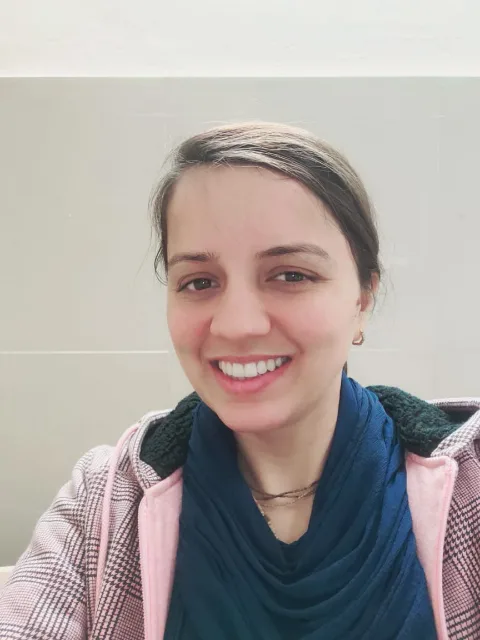
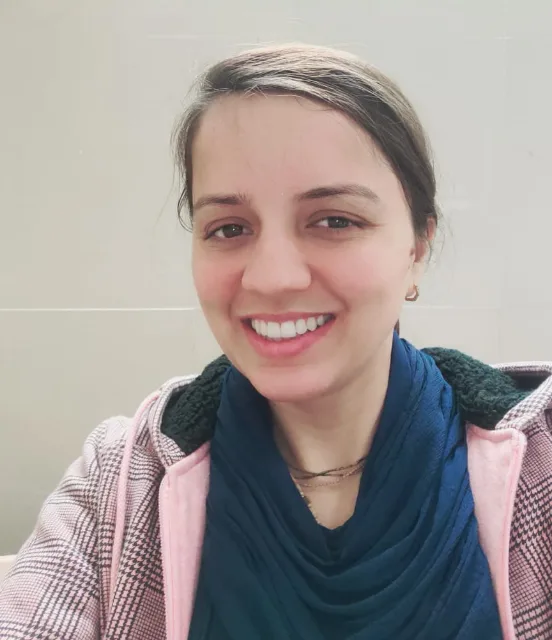
feat: Our Team page at /team — slice S6
- TeamView: light header, six photo cards in the old-homepage order
  (name, role, credentials) from GET /api/content/team; 3/2/1 per row,
  square photos on phones, loading placeholders and error message
- "Our Team" nav tab now visible; /team route and view mapping
- Deepshikha Singh photo re-cropped to remove a white wall strip
- New e2e team-page.mjs; nav-flow expects the Our Team tab

diff --git a/src/components/views/TeamView.tsx b/src/components/views/TeamView.tsx
@@ -1,0 +1,123 @@
+import React, { useEffect, useState } from 'react';
+import { ArrowRight } from 'lucide-react';
+import { contentApi, TeamMember } from '../../api/content';
+
+/**
+ * Our Team (/team): the six people from the company's previous homepage, in its order.
+ * Data comes from GET /api/content/team (migration 009).
+ */
+interface Props {
+  onNavigate: (view: string) => void;
+}
+
+const initials = (name: string) =>
+  name
+    .replace(/^Dr\.\s*/, '')
+    .split(/\s+/)
+    .map((w) => w[0])
+    .slice(0, 2)
+    .join('');
+
+export const TeamView: React.FC<Props> = ({ onNavigate }) => {
+  const [team, setTeam] = useState<TeamMember[] | null>(null);
+  const [loadError, setLoadError] = useState(false);
+
+  useEffect(() => {
+    contentApi
+      .team()
+      .then(setTeam)
+      .catch(() => setLoadError(true));
+  }, []);
+
+  return (
+    <div className="pb-24">
+      {/* Header */}
+      <section className="relative overflow-hidden bg-gradient-to-b from-teal-50/80 to-transparent">
+        <div aria-hidden="true" className="absolute inset-0 bg-[radial-gradient(#0d9488_1px,transparent_1px)] [background-size:24px_24px] opacity-[0.07]" />
+        <div className="relative max-w-3xl mx-auto px-4 sm:px-6 pt-16 pb-12 lg:pt-20 text-center space-y-4">
+          <p className="text-xs font-bold uppercase tracking-[0.18em] text-teal-700">Our Team</p>
+          <h1 className="text-4xl sm:text-5xl font-extrabold tracking-tight text-slate-900 font-heading text-balance">
+            The people behind Transenigma
+          </h1>
+          <p className="text-base sm:text-lg text-slate-600 leading-relaxed text-pretty">
+            Researchers, engineers and practitioners working across psychology, technology and health.
+          </p>
+        </div>
+      </section>
+
+      {/* People */}
+      <section aria-label="Team members" className="max-w-6xl mx-auto px-4 sm:px-6 lg:px-8">
+        {loadError && (
+          <p role="alert" className="text-sm text-rose-600 text-center py-10">
+            We could not load the team right now. Please refresh the page.
+          </p>
+        )}
+
+        <ul className="grid gap-6 sm:grid-cols-2 lg:grid-cols-3" aria-busy={!team && !loadError}>
+          {!team && !loadError &&
+            Array.from({ length: 6 }, (_, i) => (
+              <li key={i} aria-hidden="true" className="rounded-3xl border border-slate-200 bg-white overflow-hidden animate-pulse">
+                <div className="aspect-square sm:aspect-[4/5] bg-slate-100" />
+                <div className="p-6 space-y-3">
+                  <div className="h-5 w-2/3 bg-slate-100 rounded" />
+                  <div className="h-4 w-1/2 bg-slate-100 rounded" />
+                  <div className="h-3 w-3/4 bg-slate-100 rounded" />
+                </div>
+              </li>
+            ))}
+
+          {team?.map((m) => (
+            <li key={m.id}>
+              <article className="group h-full flex flex-col rounded-3xl border border-slate-200 bg-white overflow-hidden shadow-xs hover:shadow-lg hover:-translate-y-0.5 transition-all duration-300">
+                <div className="relative aspect-square sm:aspect-[4/5] overflow-hidden bg-gradient-to-br from-teal-50 to-slate-100">
+                  {m.photo ? (
+                    <img
+                      src={m.photo}
+                      alt={`Portrait of ${m.name}`}
+                      loading="lazy"
+                      decoding="async"
+                      className="absolute inset-0 w-full h-full object-cover object-top transition-transform duration-700 group-hover:scale-[1.03]"
+                    />
+                  ) : (
+                    <span aria-hidden="true" className="absolute inset-0 flex items-center justify-center text-5xl font-bold text-teal-700/60 font-heading">
+                      {initials(m.name)}
+                    </span>
+                  )}
+                  <div aria-hidden="true" className="absolute inset-x-0 bottom-0 h-24 bg-gradient-to-t from-slate-900/25 to-transparent" />
+                </div>
+                <div className="flex-1 p-6">
+                  <h2 className="text-xl font-bold text-slate-900 font-heading">{m.name}</h2>
+                  <p className="mt-1 text-sm font-semibold text-teal-700">{m.role}</p>
+                  <ul className="mt-4 space-y-1.5 border-t border-slate-100 pt-4">
+                    {m.credentials.map((c) => (
+                      <li key={c} className="text-sm text-slate-600 leading-snug">
+                        {c}
+                      </li>
+                    ))}
+                  </ul>
+                </div>
+              </article>
+            </li>
+          ))}
+        </ul>
+      </section>
+
+      {/* Contact prompt */}
+      <section className="max-w-6xl mx-auto px-4 sm:px-6 lg:px-8 mt-16">
+        <div className="rounded-3xl bg-slate-50 border border-slate-200 px-6 py-10 sm:px-10 flex flex-col sm:flex-row items-center justify-between gap-6 text-center sm:text-left">
+          <div className="space-y-1">
+            <h2 className="text-xl sm:text-2xl font-bold text-slate-900 font-heading">Want to work with us?</h2>
+            <p className="text-sm text-slate-600">Tell us about your project, research idea or question.</p>
+          </div>
+          <button
+            onClick={() => onNavigate('contact')}
+            className="shrink-0 h-12 px-6 rounded-xl bg-teal-600 hover:bg-teal-700 text-white font-semibold text-[15px] transition-colors inline-flex items-center gap-2 cursor-pointer focus:outline-hidden focus-visible:ring-4 focus-visible:ring-teal-500/30"
+          >
+            Contact us
+            <ArrowRight className="w-4 h-4" aria-hidden="true" />
+          </button>
+        </div>
+      </section>
+    </div>
+  );
+};

diff --git a/src/App.tsx b/src/App.tsx
@@ -20,6 +20,7 @@ import { FactorsDirectoryView } from './components/views/FactorsDirectoryView';
 import { HowItWorksView } from './components/views/HowItWorksView';
 import { BenefitsView } from './components/views/BenefitsView';
 import { FAQView } from './components/views/FAQView';
+import { TeamView } from './components/views/TeamView';
 import { ContactView } from './components/views/ContactView';
 import { PrivacyTermsView } from './components/views/PrivacyTermsView';
 import { AdminPortalView } from './components/views/AdminPortalView';
@@ -118,6 +119,7 @@ export default function App() {
         <Route path="/how-it-works" element={<WithNavigate component={HowItWorksView} />} />
         <Route path="/benefits" element={<WithNavigate component={BenefitsView} />} />
         <Route path="/faq" element={<WithNavigate component={FAQView} />} />
+        <Route path="/team" element={<WithNavigate component={TeamView} />} />
         <Route path="/contact" element={<ContactView />} />
         <Route path="/privacy" element={<PrivacyTermsView key="privacy" initialTab="privacy" />} />
         <Route path="/terms" element={<PrivacyTermsView key="terms" initialTab="terms" />} />

diff --git a/src/components/layout/Navbar.tsx b/src/components/layout/Navbar.tsx
@@ -49,7 +49,7 @@ const NAV_ITEMS: NavItem[] = [
   },
   { id: 'research', label: 'Research', view: 'research', ready: false },
   { id: 'consultancy', label: 'Consultancy', view: 'consultancy', ready: false },
-  { id: 'team', label: 'Our Team', view: 'team', ready: false },
+  { id: 'team', label: 'Our Team', view: 'team' },
   { id: 'contact', label: 'Contact', view: 'contact' },
 ];
 

diff --git a/src/lib/routes.ts b/src/lib/routes.ts
@@ -14,6 +14,7 @@ const VIEW_PATHS: Record<string, string> = {
   benefits: '/benefits',
   faq: '/faq',
   contact: '/contact',
+  team: '/team',
   'privacy-terms': '/privacy',
   privacy: '/privacy',
   terms: '/terms',

diff --git a/tests/e2e/README.md b/tests/e2e/README.md
@@ -8,6 +8,7 @@ They need no extra npm packages; Node 22+ has a built-in WebSocket. Screenshots 
 | Script | What it checks |
 |---|---|
 | `guest-flow.mjs` | Guest takes the test → reload and resume → submit → results gate → sign up → report → share link → My Results |
+| `team-page.mjs` | Our Team page: six people in the old-homepage order, all photos load, 3/2/1 per row at 1440/768/390 px, no overflow, nav tab active, Contact button. Read-only |
 | `home-top.mjs` | Home page order: dark Transenigma intro → Research · Consultancy · Programs → 16PF assessment (no factor grid, no workshops, no sparkle icons) → 60-day programs; one h1; assessment button before programs; no duplicate program cards; no page overflow at 1440/768/390/360 px; intro buttons. Read-only |
 | `nav-flow.mjs` | Main navigation: Programs and 16PF Test dropdowns (hover, click, keyboard, outside click), program links scrolling to STI/PTI/TTI (also when the challenge filter hides them), mobile drawer groups. Read-only, creates no rows |
 | `phase4-flow.mjs <adminEmail> <adminPassword>` | STI → PTI → TTI order; PTI registration ("Registered successfully"); duplicate refused; joining a second program; contact form; newsletter; FAQs; admin registrations filter and status change; maintenance toggle |
@@ -16,6 +17,7 @@ They need no extra npm packages; Node 22+ has a built-in WebSocket. Screenshots 
 node tests/e2e/guest-flow.mjs
 node tests/e2e/nav-flow.mjs
 node tests/e2e/home-top.mjs
+node tests/e2e/team-page.mjs
 node tests/e2e/phase4-flow.mjs admin@example.com "<password>"
 ```
 
